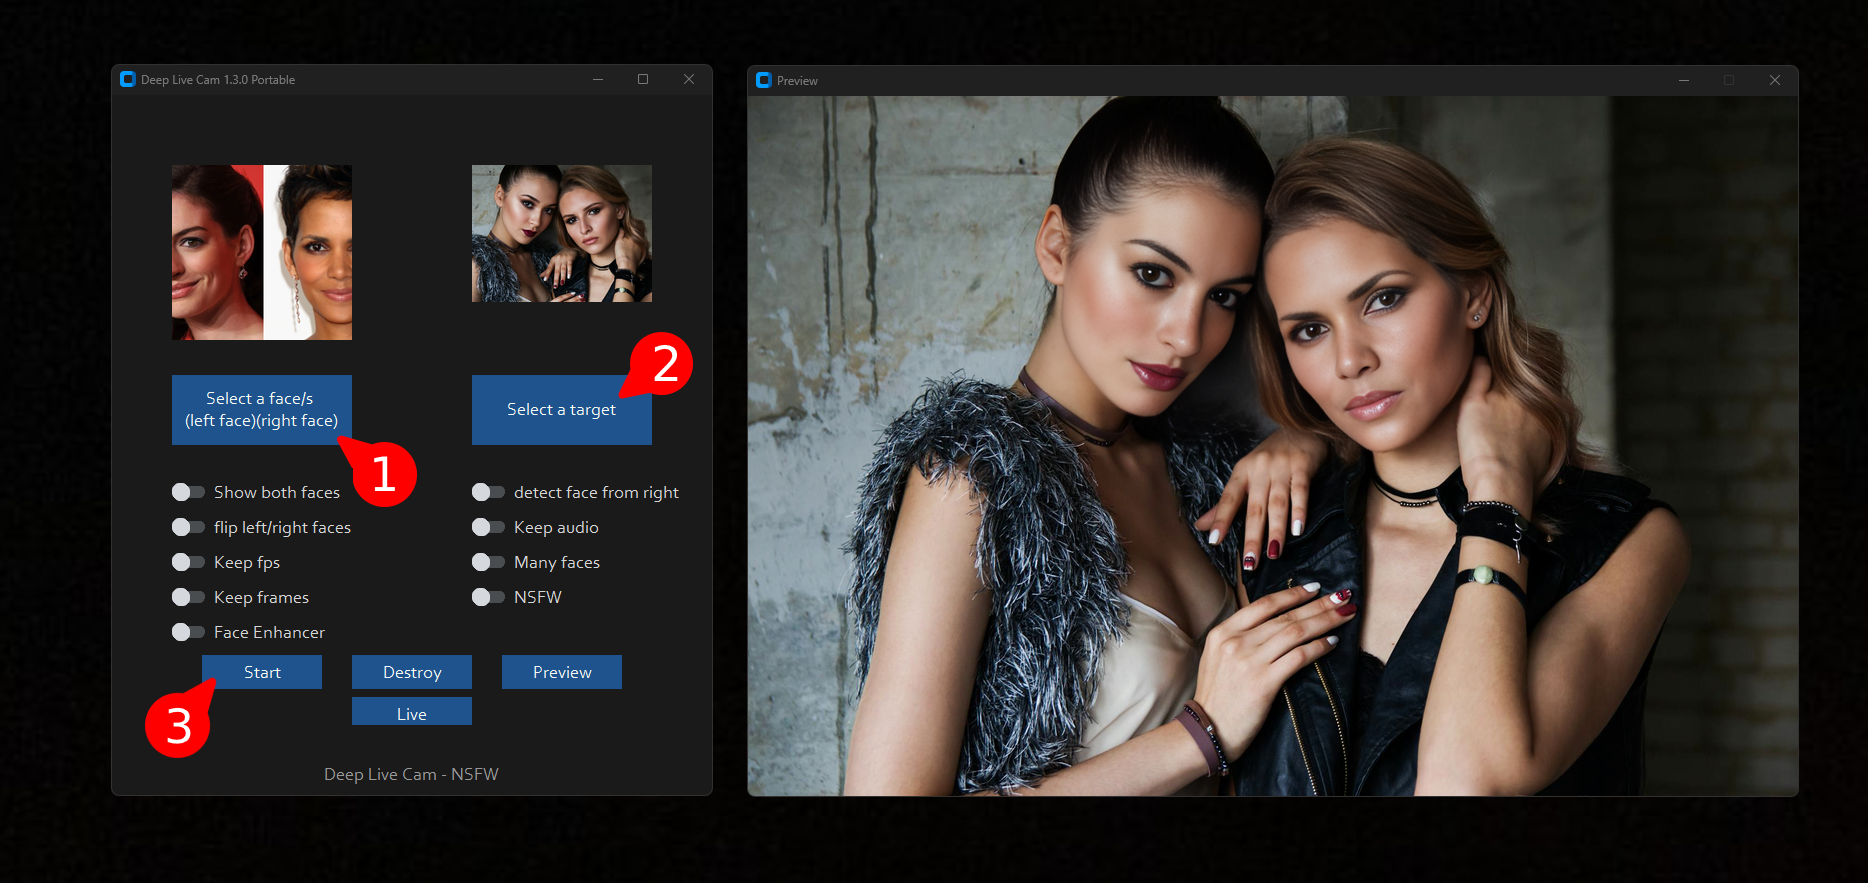
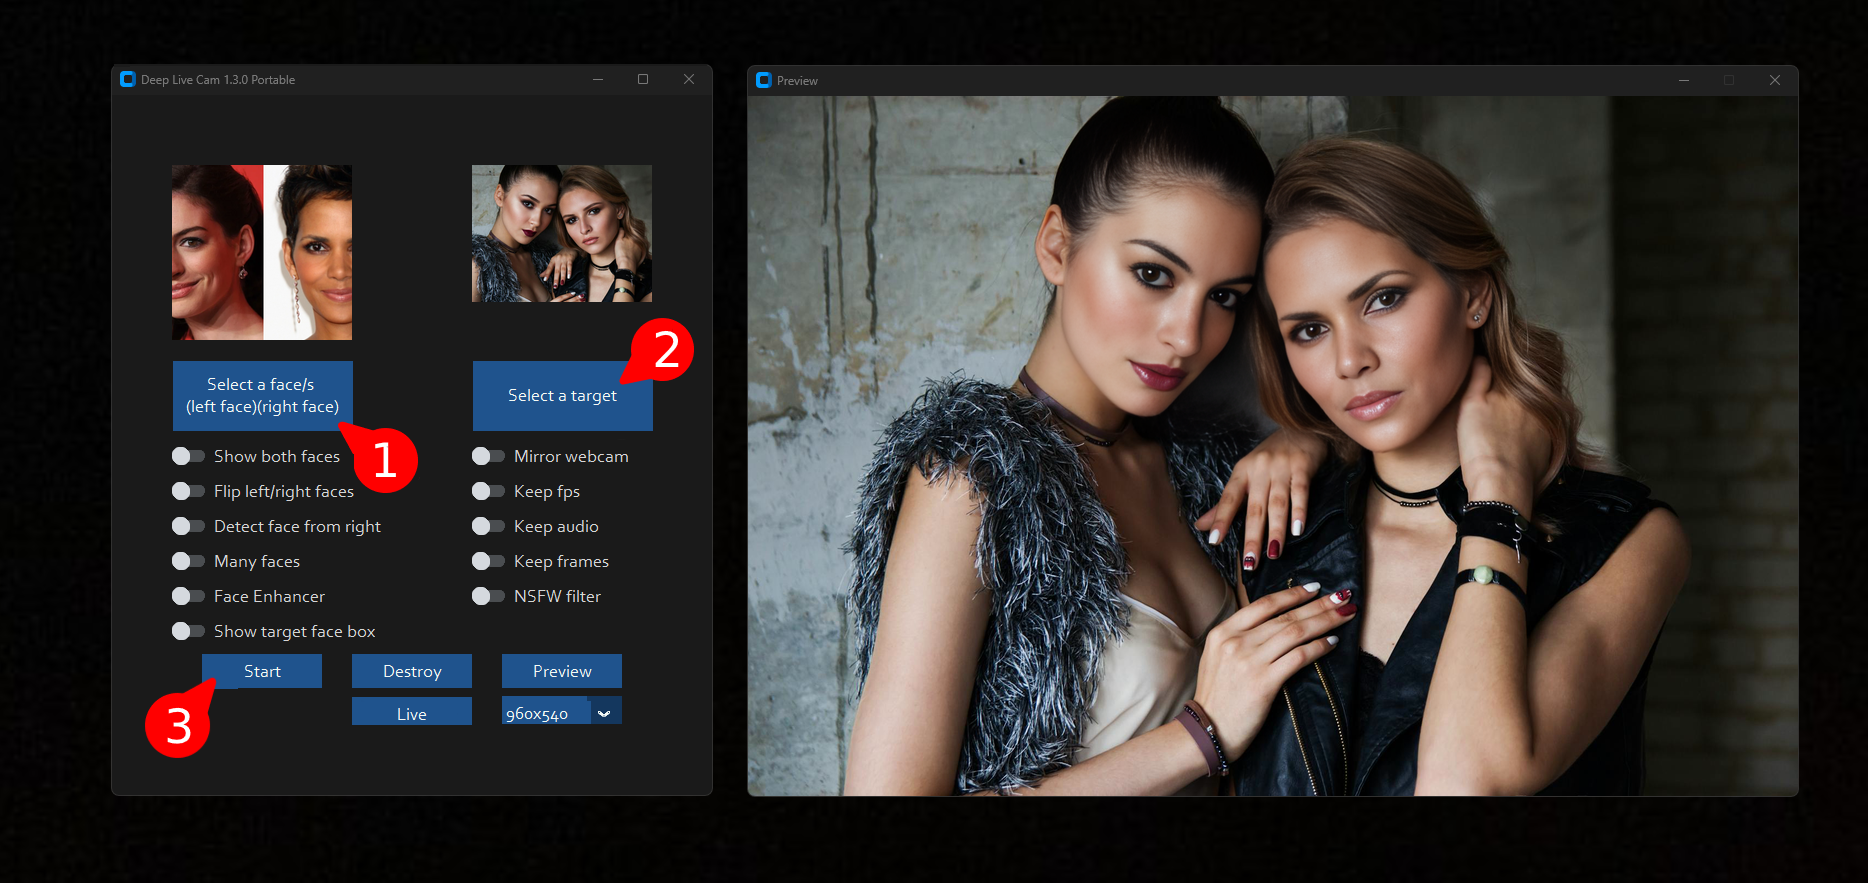
Added resizable window,and organized layout

diff --git a/modules/ui.py b/modules/ui.py
@@ -58,57 +58,65 @@ def create_root(start: Callable[[], None], destroy: Callable[[], None]) -> ctk.C
     root.protocol('WM_DELETE_WINDOW', lambda: destroy())
 
     source_label = ctk.CTkLabel(root, text=None)
-    source_label.place(relx=0.1, rely=0.1, relwidth=0.3, relheight=0.25)
+    source_label.place(relx=0.1, rely=0.08, relwidth=0.3, relheight=0.25)
 
     target_label = ctk.CTkLabel(root, text=None)
-    target_label.place(relx=0.6, rely=0.1, relwidth=0.3, relheight=0.25)
+    target_label.place(relx=0.6, rely=0.08, relwidth=0.3, relheight=0.25)
 
     select_face_button = ctk.CTkButton(root, text='Select a face', cursor='hand2', command=lambda: select_source_path())
-    select_face_button.place(relx=0.1, rely=0.4, relwidth=0.3, relheight=0.1)
+    select_face_button.place(relx=0.1, rely=0.35, relwidth=0.3, relheight=0.1)
 
     select_target_button = ctk.CTkButton(root, text='Select a target', cursor='hand2', command=lambda: select_target_path())
-    select_target_button.place(relx=0.6, rely=0.4, relwidth=0.3, relheight=0.1)
+    select_target_button.place(relx=0.6, rely=0.35, relwidth=0.3, relheight=0.1)
 
     both_faces_value = ctk.BooleanVar(value=modules.globals.both_faces)
     both_faces_checkbox = ctk.CTkSwitch(root, text='Show both faces', variable=both_faces_value, cursor='hand2', command=lambda: setattr(modules.globals, 'both_faces', not modules.globals.both_faces))
-    both_faces_checkbox.place(relx=0.1, rely=0.55)
+    both_faces_checkbox.place(relx=0.1, rely=0.50)
 
     flip_faces_value = ctk.BooleanVar(value=modules.globals.flip_faces)
     flip_faces_checkbox = ctk.CTkSwitch(root, text='Flip left/right faces', variable=flip_faces_value, cursor='hand2', command=lambda: setattr(modules.globals, 'flip_faces', not modules.globals.flip_faces))
-    flip_faces_checkbox.place(relx=0.1, rely=0.60)
+    flip_faces_checkbox.place(relx=0.1, rely=0.55)
 
-    keep_fps_value = ctk.BooleanVar(value=modules.globals.keep_fps)
-    keep_fps_checkbox = ctk.CTkSwitch(root, text='Keep fps', variable=keep_fps_value, cursor='hand2', command=lambda: setattr(modules.globals, 'keep_fps', not modules.globals.keep_fps))
-    keep_fps_checkbox.place(relx=0.1, rely=0.65)
 
-    keep_frames_value = ctk.BooleanVar(value=modules.globals.keep_frames)
-    keep_frames_switch = ctk.CTkSwitch(root, text='Keep frames', variable=keep_frames_value, cursor='hand2', command=lambda: setattr(modules.globals, 'keep_frames', keep_frames_value.get()))
-    keep_frames_switch.place(relx=0.1, rely=0.70)
+
+    detect_face_right_value = ctk.BooleanVar(value=modules.globals.detect_face_right)
+    detect_face_right_checkbox = ctk.CTkSwitch(root, text='Detect face from right', variable=detect_face_right_value, cursor='hand2', command=lambda: setattr(modules.globals, 'detect_face_right', not modules.globals.detect_face_right))
+    detect_face_right_checkbox.place(relx=0.1, rely=0.60)
+
+    many_faces_value = ctk.BooleanVar(value=modules.globals.many_faces)
+    many_faces_switch = ctk.CTkSwitch(root, text='Many faces', variable=many_faces_value, cursor='hand2', command=lambda: setattr(modules.globals, 'many_faces', many_faces_value.get()))
+    many_faces_switch.place(relx=0.1, rely=0.65)
 
     # for FRAME PROCESSOR ENHANCER tumbler:
     enhancer_value = ctk.BooleanVar(value=modules.globals.fp_ui['face_enhancer'])
     enhancer_switch = ctk.CTkSwitch(root, text='Face Enhancer', variable=enhancer_value, cursor='hand2', command=lambda: update_tumbler('face_enhancer',enhancer_value.get()))
-    enhancer_switch.place(relx=0.1, rely=0.75)
+    enhancer_switch.place(relx=0.1, rely=0.70)
 
-    detect_face_right_value = ctk.BooleanVar(value=modules.globals.detect_face_right)
-    detect_face_right_checkbox = ctk.CTkSwitch(root, text='Detect face from right', variable=detect_face_right_value, cursor='hand2', command=lambda: setattr(modules.globals, 'detect_face_right', not modules.globals.detect_face_right))
-    detect_face_right_checkbox.place(relx=0.6, rely=0.55)
+    show_target_face_box_value = ctk.BooleanVar(value=modules.globals.show_target_face_box)
+    show_target_face_box_checkbox = ctk.CTkSwitch(root, text='Show target face box', variable=show_target_face_box_value, cursor='hand2', command=lambda: setattr(modules.globals, 'show_target_face_box', not modules.globals.show_target_face_box))
+    show_target_face_box_checkbox.place(relx=0.1, rely=0.75)
+
+    live_mirror_value = ctk.BooleanVar(value=modules.globals.live_mirror)
+    live_mirror_checkbox = ctk.CTkSwitch(root, text='Mirror webcam', variable=live_mirror_value, cursor='hand2', command=lambda: setattr(modules.globals, 'live_mirror', not modules.globals.live_mirror))
+    live_mirror_checkbox.place(relx=0.6, rely=0.50)
+
+    keep_fps_value = ctk.BooleanVar(value=modules.globals.keep_fps)
+    keep_fps_checkbox = ctk.CTkSwitch(root, text='Keep fps', variable=keep_fps_value, cursor='hand2', command=lambda: setattr(modules.globals, 'keep_fps', not modules.globals.keep_fps))
+    keep_fps_checkbox.place(relx=0.6, rely=0.55)
 
     keep_audio_value = ctk.BooleanVar(value=modules.globals.keep_audio)
     keep_audio_switch = ctk.CTkSwitch(root, text='Keep audio', variable=keep_audio_value, cursor='hand2', command=lambda: setattr(modules.globals, 'keep_audio', keep_audio_value.get()))
     keep_audio_switch.place(relx=0.6, rely=0.60)
 
-    many_faces_value = ctk.BooleanVar(value=modules.globals.many_faces)
-    many_faces_switch = ctk.CTkSwitch(root, text='Many faces', variable=many_faces_value, cursor='hand2', command=lambda: setattr(modules.globals, 'many_faces', many_faces_value.get()))
-    many_faces_switch.place(relx=0.6, rely=0.65)
+    keep_frames_value = ctk.BooleanVar(value=modules.globals.keep_frames)
+    keep_frames_switch = ctk.CTkSwitch(root, text='Keep frames', variable=keep_frames_value, cursor='hand2', command=lambda: setattr(modules.globals, 'keep_frames', keep_frames_value.get()))
+    keep_frames_switch.place(relx=0.6, rely=0.65)
 
     nsfw_value = ctk.BooleanVar(value=modules.globals.nsfw_filter)
     nsfw_switch = ctk.CTkSwitch(root, text='NSFW filter', variable=nsfw_value, cursor='hand2', command=lambda: setattr(modules.globals, 'nsfw_filter', nsfw_value.get()))
     nsfw_switch.place(relx=0.6, rely=0.70)
 
-    show_target_face_box_value = ctk.BooleanVar(value=modules.globals.show_target_face_box)
-    show_target_face_box_checkbox = ctk.CTkSwitch(root, text='Show target face box', variable=show_target_face_box_value, cursor='hand2', command=lambda: setattr(modules.globals, 'show_target_face_box', not modules.globals.show_target_face_box))
-    show_target_face_box_checkbox.place(relx=0.6, rely=0.75)
+
 
     start_button = ctk.CTkButton(root, text='Start', cursor='hand2', command=lambda: select_output_path(start))
     start_button.place(relx=0.15, rely=0.80, relwidth=0.2, relheight=0.05)

diff --git a/modules/globals.py b/modules/globals.py
@@ -21,7 +21,7 @@ nsfw_filter = None
 video_encoder = None
 video_quality = None
 live_mirror = None
-live_resizable = None
+live_resizable = True
 max_memory = None
 execution_providers: List[str] = []
 execution_threads = None
